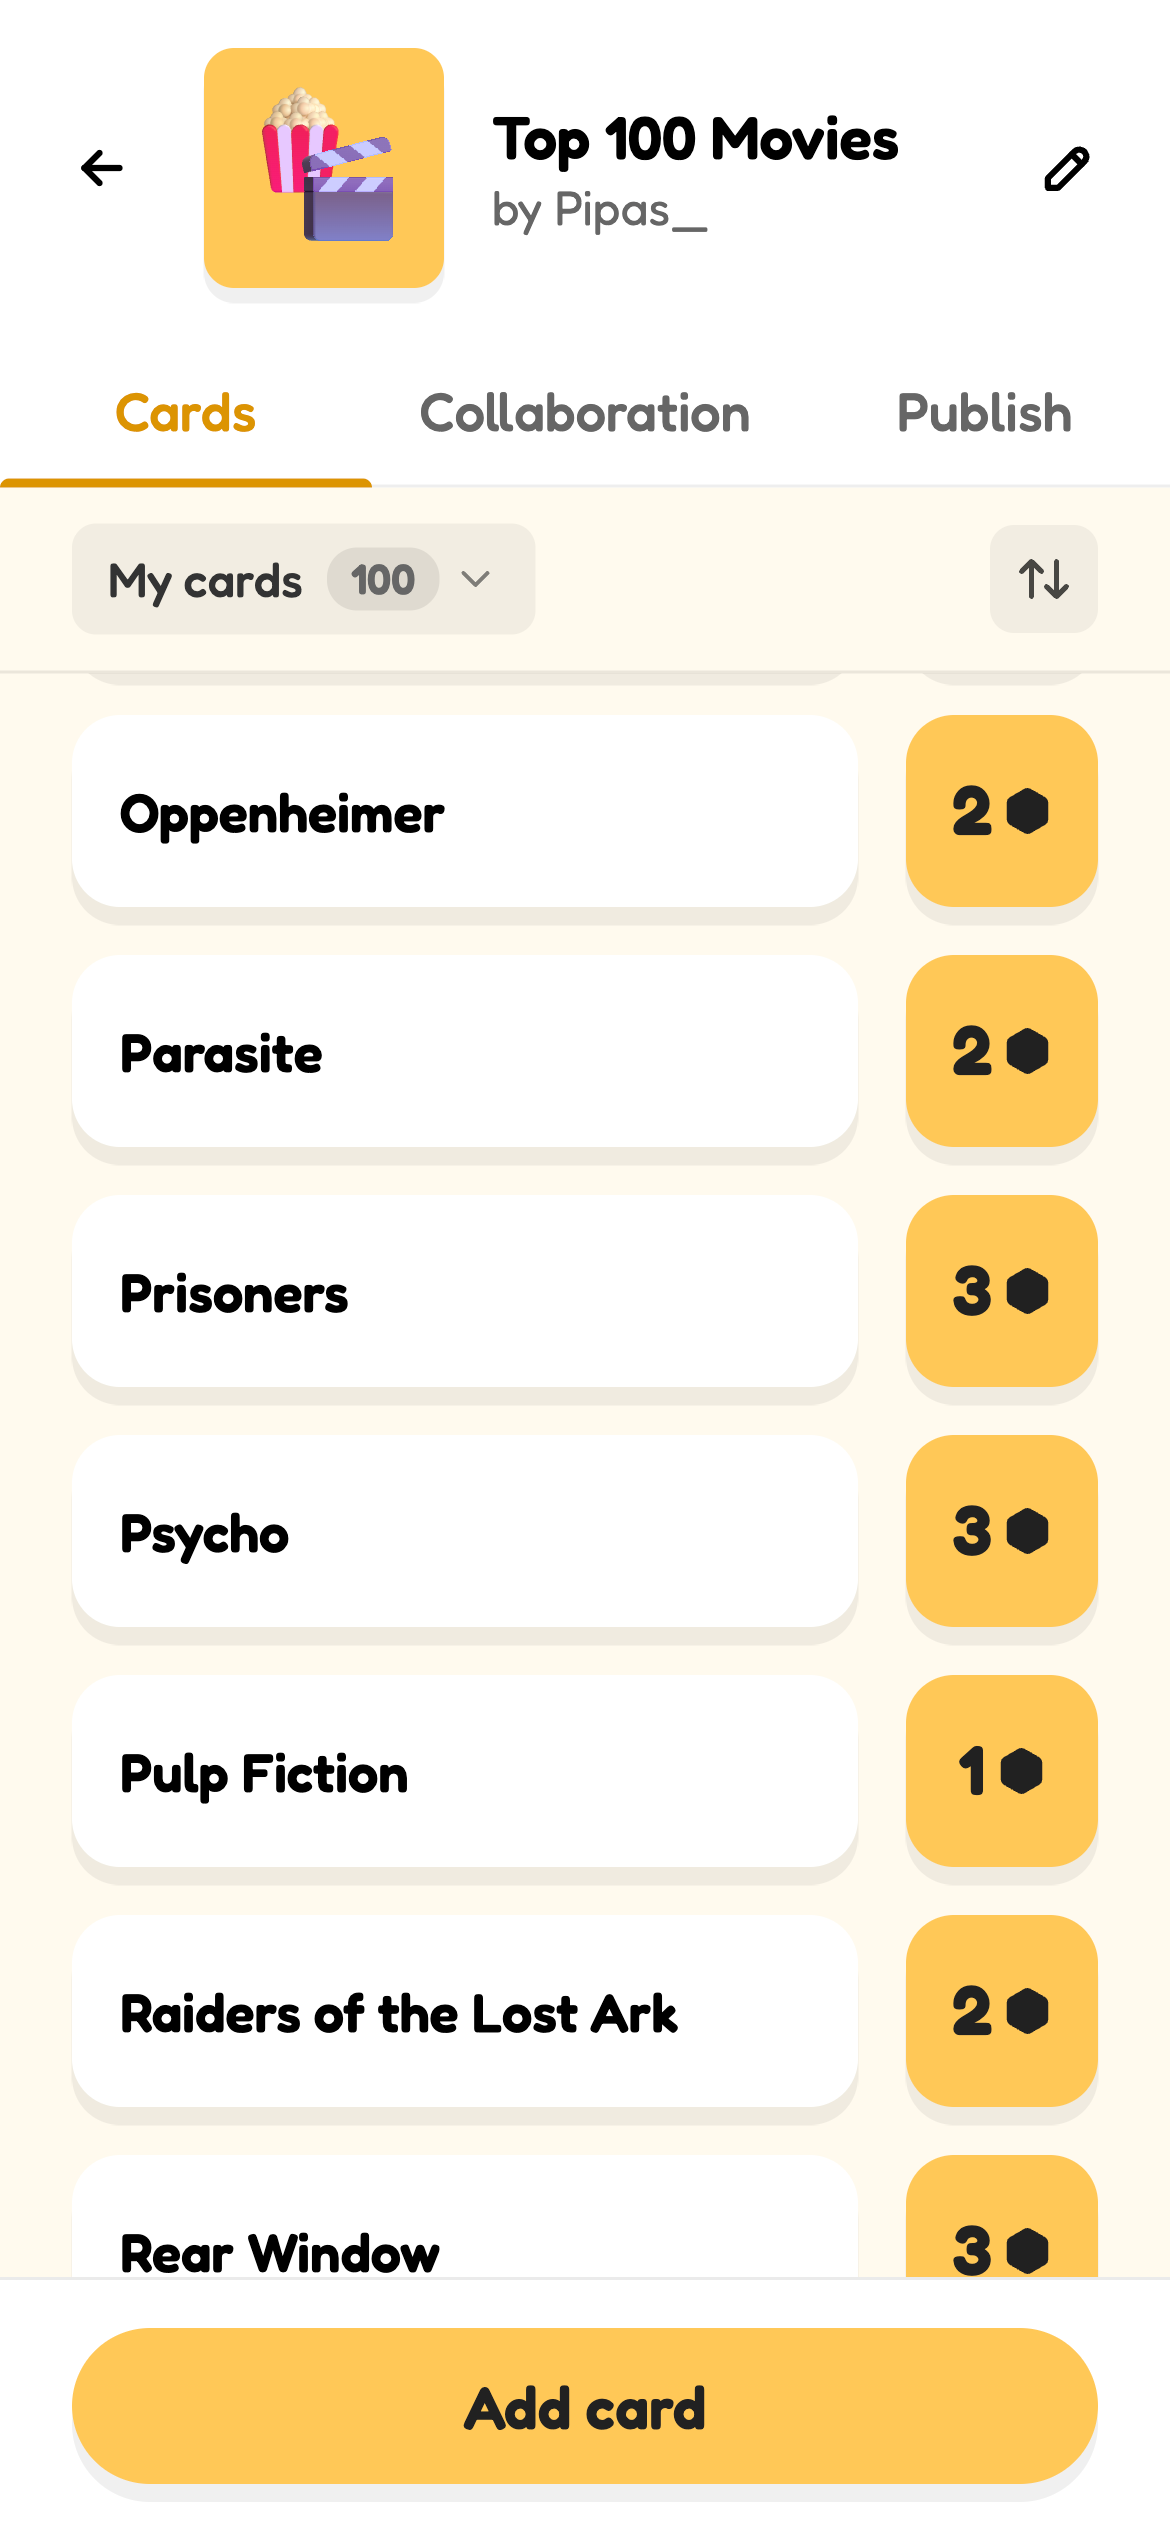
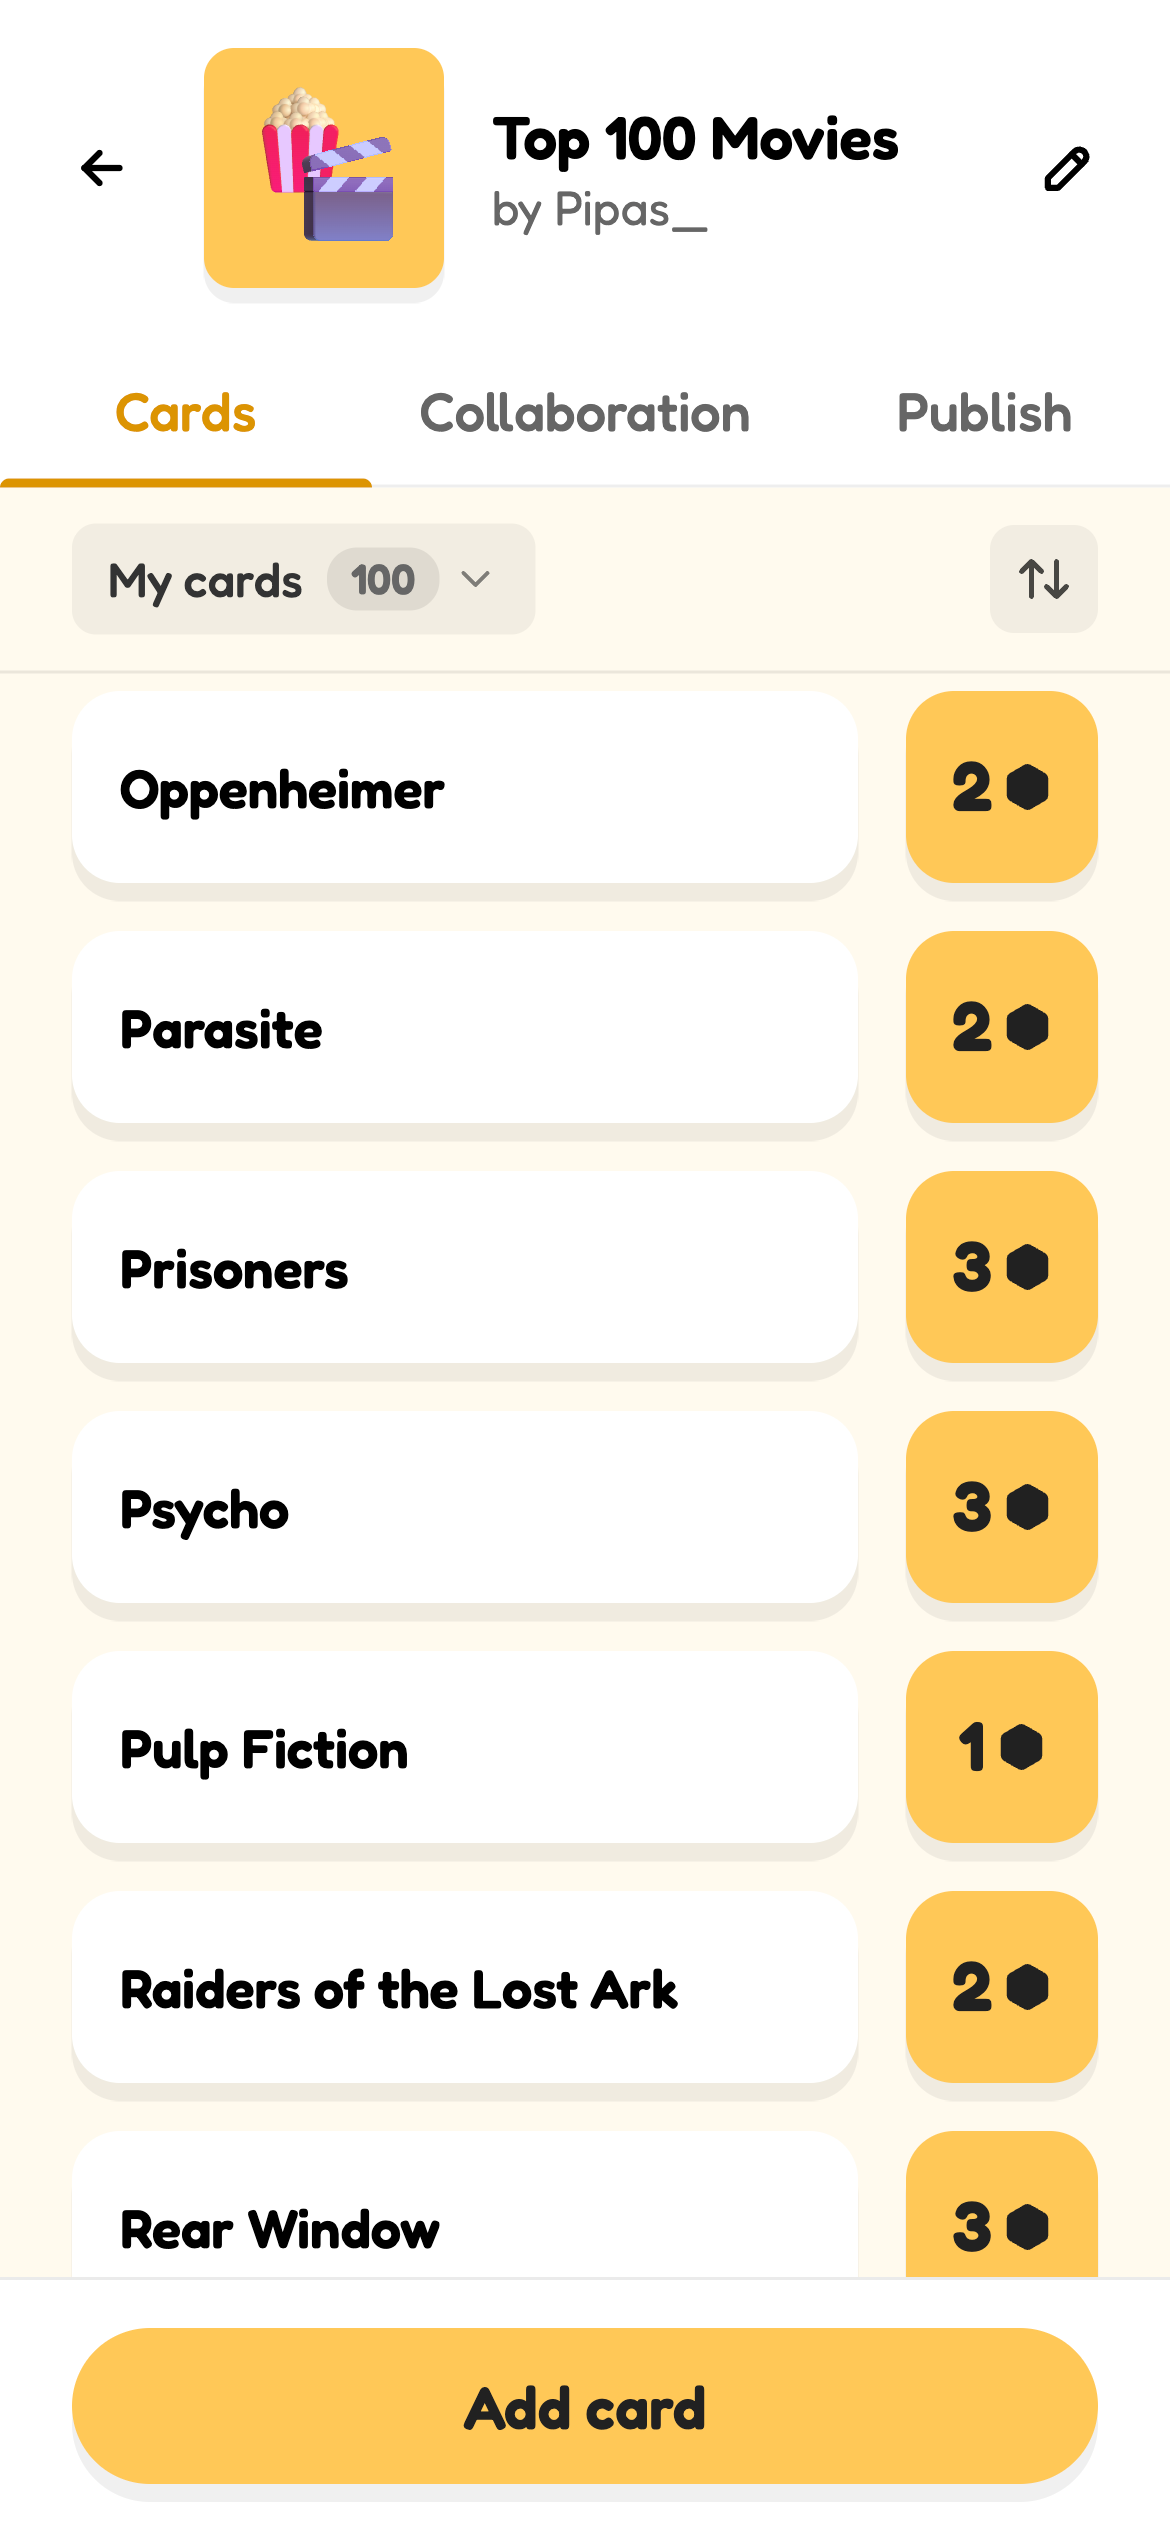
Updated meta and english translation

diff --git a/src/styles/base.css b/src/styles/base.css
@@ -242,6 +242,12 @@ img {
   background: var(--red);
   color: var(--white);
 }
+/* For light sections (bg-white / bg-paper) where the translucent-white
+   default would vanish. */
+.pill.tint {
+  background: rgba(0, 168, 120, 0.12);
+  color: var(--green-dark);
+}
 
 /* ── Decorative text underlines ─────────────────────── */
 .underline-red {
@@ -418,19 +424,6 @@ img {
   background: rgba(255, 255, 255, 0.25);
 }
 
-/* Section heads */
-.eyebrow {
-  display: inline-block;
-  font-size: 13px;
-  font-weight: 500;
-  letter-spacing: 0.18em;
-  text-transform: uppercase;
-  color: var(--green-dark);
-  margin-bottom: 12px;
-}
-.bg-green .eyebrow {
-  color: rgba(255, 255, 255, 0.7);
-}
 
 h2.section-title {
   font-family: "Fredoka", sans-serif;
@@ -776,10 +769,9 @@ h2.section-title {
 /* Pack list — mirrors packs.63.pt PackPreview + row layout */
 .pack-tiles {
   display: grid;
-  grid-template-columns: repeat(2, 1fr);
-  gap: 14px 18px;
-  max-width: 560px;
-  margin-top: 24px;
+  grid-template-columns: repeat(3, 1fr);
+  gap: 18px 24px;
+  margin: 24px 0 0;
 }
 .pack-tile {
   display: flex;

diff --git a/src/template.js b/src/template.js
@@ -7,6 +7,10 @@
 
 const SITE_URL = 'https://63.pt';
 
+// og:locale expects an underscore locale (language_TERRITORY), not the bare
+// hreflang code we use elsewhere. Map each supported language to its region.
+const OG_LOCALES = { pt: 'pt_PT', en: 'en_GB' };
+
 // App-store deep links (same for every language).
 const PLAY_URL = 'https://play.google.com/store/apps/details?id=pt.app63';
 const APPLE_URL = 'https://apps.apple.com/app/63/id6449913779';
@@ -184,10 +188,15 @@ export default function render(t, ctx) {
 
     <!-- Open Graph / Facebook -->
     <meta property="og:type" content="website" />
+    <meta property="og:site_name" content="63" />
+    <meta property="og:locale" content="${OG_LOCALES[t.lang] || 'en_GB'}" />
     <meta property="og:url" content="${SITE_URL}${self.url}" />
     <meta property="og:title" content="${t.meta.title}" />
     <meta property="og:description" content="${t.meta.description}" />
     <meta property="og:image" content="${SITE_URL}/assets/meta_preview.png" />
+    <meta property="og:image:width" content="1200" />
+    <meta property="og:image:height" content="627" />
+    <meta property="og:image:alt" content="${t.meta.title}" />
 
     <!-- Twitter -->
     <meta property="twitter:card" content="summary_large_image" />
@@ -195,6 +204,7 @@ export default function render(t, ctx) {
     <meta property="twitter:title" content="${t.meta.title}" />
     <meta property="twitter:description" content="${t.meta.description}" />
     <meta property="twitter:image" content="${SITE_URL}/assets/meta_preview.png" />
+    <meta property="twitter:image:alt" content="${t.meta.title}" />
 
     <link rel="canonical" href="${SITE_URL}${self.url}" />
 ${alternateLinks(langs)}
@@ -285,7 +295,7 @@ ${storeBadges(t.lang)}
 
       <!-- HOW TO PLAY -->
       <section class="section bg-white" id="how">
-        <span class="eyebrow">${t.how.eyebrow}</span>
+        <div class="packs-tags"><span class="pill tint">${t.how.chip}</span></div>
         <h2 class="section-title">${t.how.titleTop}<br /><span class="underline-yellow">${t.how.titleBottom}</span></h2>
         <p class="section-lead">${t.how.lead}</p>
 
@@ -337,7 +347,7 @@ ${storeBadges(t.lang)}
       <section class="bg-paper" id="packs">
         <div class="section community">
           <div>
-            <span class="eyebrow">${t.community.eyebrow}</span>
+            <div class="packs-tags"><span class="pill tint">${t.community.chip}</span></div>
             <h2 class="section-title">${t.community.titleTop}<br />${t.community.titleBottom}</h2>
             <p class="section-lead">${t.community.lead}</p>
             <p class="free-callout">

diff --git a/src/styles/landing.css b/src/styles/landing.css
@@ -15,10 +15,11 @@
   font-weight: 500;
 }
 
-/* Community section has no screenshot in v3 — single column. */
+/* Community section has no screenshot in v3 — single column. Text aligns
+   left with every other section (full 1280 width); only the pack grid is
+   centred (see .pack-tiles). */
 .section.community {
   grid-template-columns: 1fr;
-  max-width: 760px;
 }
 
 /* The packs.63.pt section sits on the deeper green so the NEW